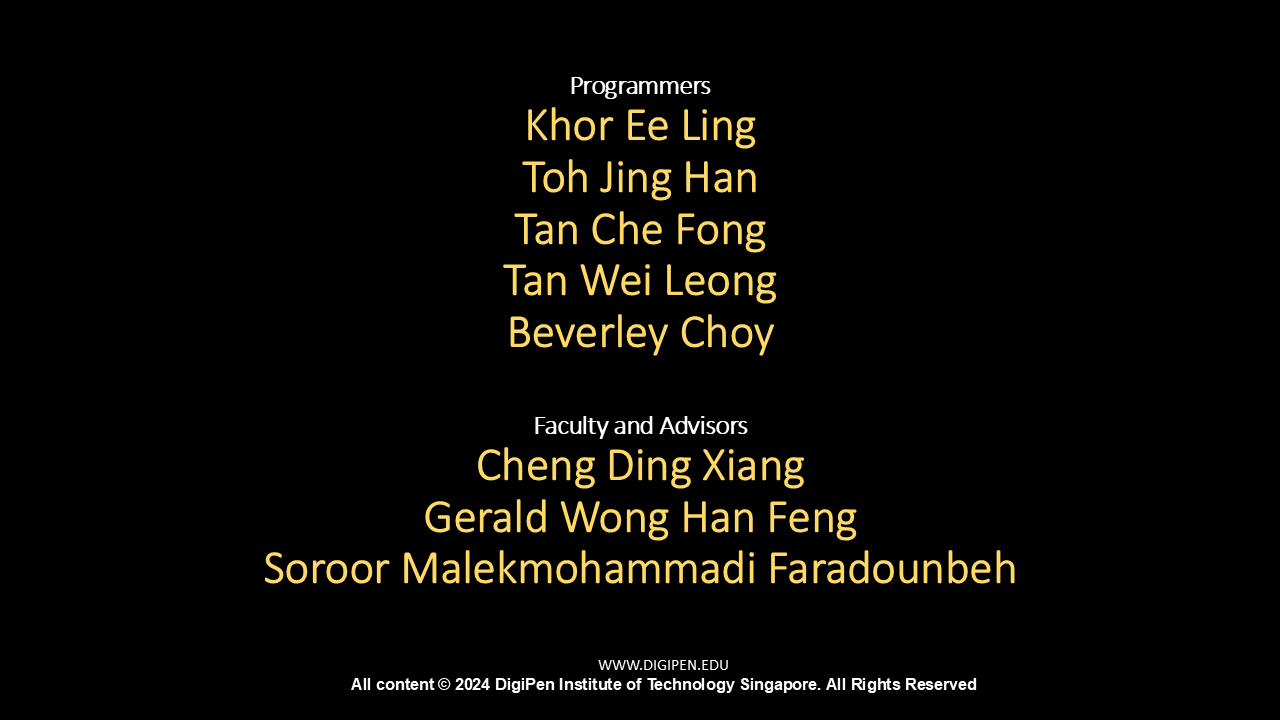
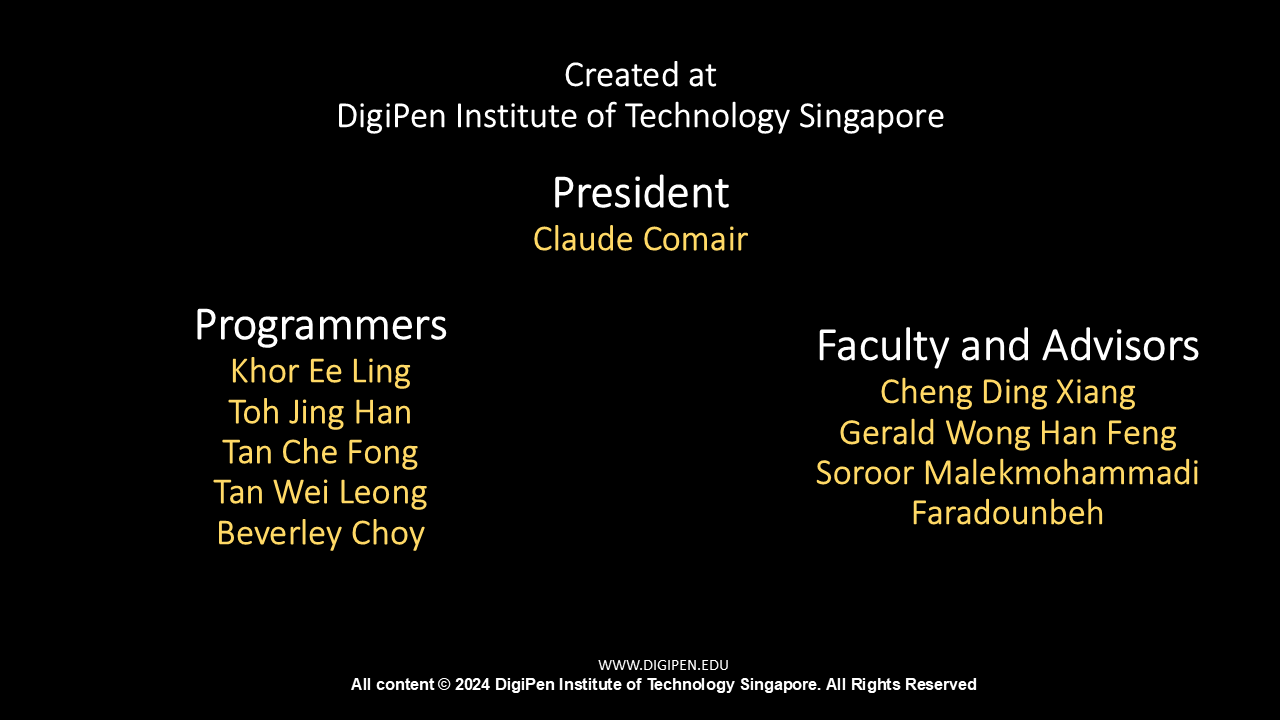
updated credit.c (credit page)
git-svn-id: https://svn.digipen.edu/projects/team_syntaxerror_f24@89 fcdb81b8-b355-4a00-a1f0-9f2d5ade29a8

Changed region(s): [[0.1562, 0.0917, 0.9375, 0.825], [0.1562, 0.4278, 0.3438, 0.6417], [0.7188, 0.7028, 0.875, 0.7333]]

diff --git a/SEP1/SEP1/credits.c b/SEP1/SEP1/credits.c
@@ -10,6 +10,8 @@
 extern CP_Font myFont;
 extern bool creditsScreen;
 float textSize;
+int page;
+bool Credits_Pg1;
 
 
 void Credits(void)
@@ -24,16 +26,16 @@ void Credits(void)
 
     // Credits
     CP_Image Credits = CP_Image_Load("Assets/Credits_page.png");
-    CP_Image_Draw(Credits, WINDOW_WIDTH / 2.0f, WINDOW_HEIGHT / 2.0f , WINDOW_WIDTH, WINDOW_HEIGHT, 255);
+    CP_Image_Draw(Credits, WINDOW_WIDTH / 2.0f, WINDOW_HEIGHT / 2.0f, WINDOW_WIDTH, WINDOW_HEIGHT, 255);
 
     // Back button
     CP_Settings_Fill(CP_Color_Create(255, 168, 5, 255));
-    CP_Graphics_DrawRect(WINDOW_WIDTH / 1.2f, WINDOW_HEIGHT / 6.0f, WINDOW_WIDTH / 6.0f, WINDOW_HEIGHT / 12.0f);
+    CP_Graphics_DrawRect(WINDOW_WIDTH / 1.15f, WINDOW_HEIGHT / 6.0f, WINDOW_WIDTH / 6.0f, WINDOW_HEIGHT / 12.0f);
     CP_Font_Set(myFont);
     CP_Settings_Fill(CP_Color_Create(0, 0, 0, 255));
     CP_Settings_TextSize(50.0f);
-    CP_Font_DrawText("Back", WINDOW_WIDTH / 1.24f, WINDOW_HEIGHT / 5.5f);
-    if (IsAreaClicked(WINDOW_WIDTH / 1.2f, WINDOW_HEIGHT / 6.0f,
+    CP_Font_DrawText("Back", WINDOW_WIDTH / 1.19f, WINDOW_HEIGHT / 5.5f);
+    if (IsAreaClicked(WINDOW_WIDTH / 1.15f, WINDOW_HEIGHT / 6.0f,
         WINDOW_WIDTH / 6.0f, WINDOW_HEIGHT / 12.0f, CP_Input_GetMouseX(), CP_Input_GetMouseY()) == 1)
     {
         creditsScreen = false;
